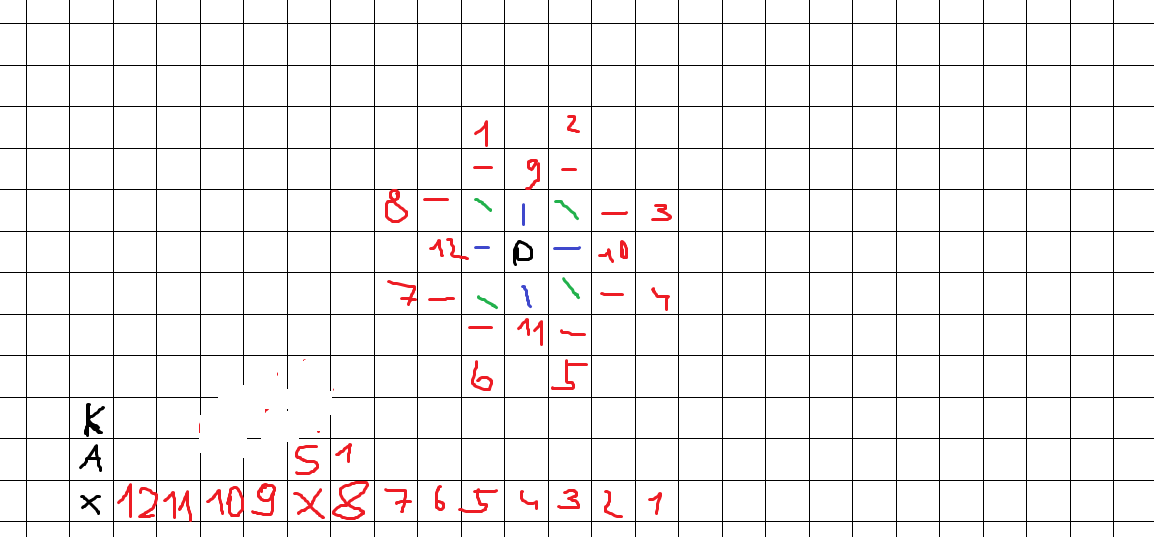
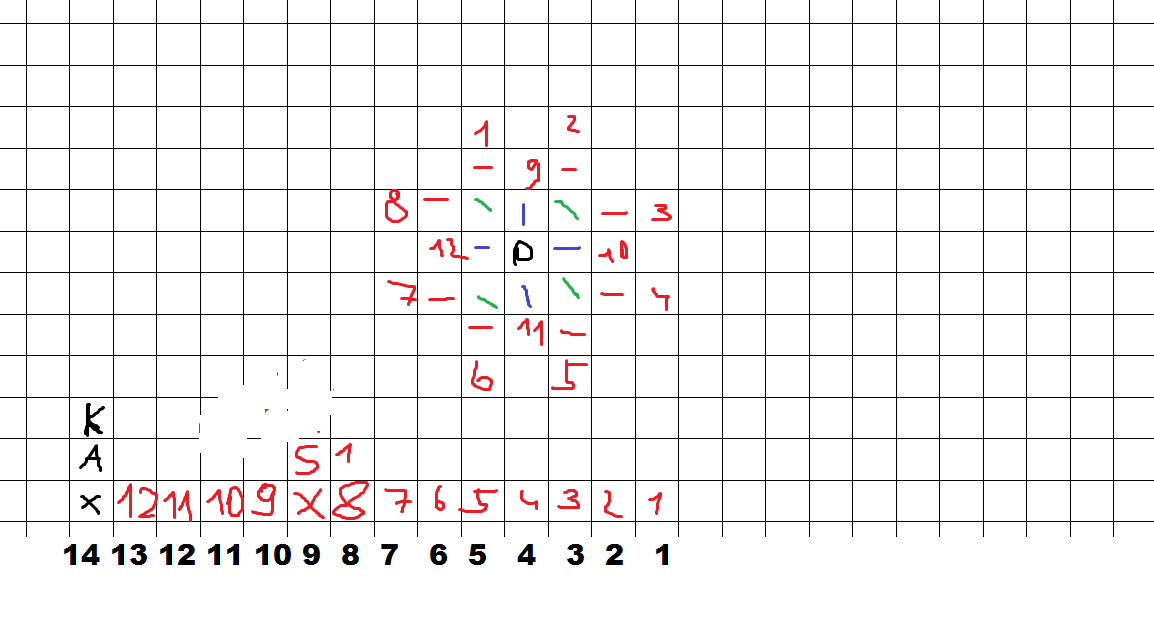
arc,kanc

Changed region(s): [[0.0, 0.149, 1.0, 0.9832], [0.0, 0.0298, 1.0, 0.0596], [0.2184, 0.6555, 0.2496, 0.6853]]

diff --git a/Szachy_Cpp.cpp b/Szachy_Cpp.cpp
@@ -17,9 +17,8 @@ int main()
 {
 	Plansza plansza1(8, 8);
 	Plansza8x8 init(plansza1);		//te dwie linie to utworzenie planszy 8x8 i ustawienie figur
-
-
 	int i, n;
+
 	cout << endl << "Roszada 1: "<< plansza1.get_object(XX, YY).get_castling() << endl;
 	plansza1.set_object(2,1,TEAM,0);
 	plansza1.set_object(3,1,TEAM,0);
@@ -32,10 +31,13 @@ int main()
 	plansza1.set_object(2,1,TEAM,0);
 	cout << endl << "Roszady obie: "<< plansza1.get_object(XX, YY).get_castling() << endl;
 
+
 	i = plansza1.get_object(XX,YY).get_possible_move();
 	cout << endl << "Ruch: "<< i << endl;
 
-	if(plansza1.get_object(XX,YY).get_type()!=Skoczek)
+	if(plansza1.get_object(XX,YY).get_type()!=Skoczek &&
+			plansza1.get_object(XX,YY).get_type()!=Arcybiskup &&
+			plansza1.get_object(XX,YY).get_type()!=Kanclerz)
 	{
 		n = plansza1.get_object(XX,YY).get_elongation_move(7);
 		cout<< n << " ";
@@ -57,6 +59,63 @@ int main()
 		n = plansza1.get_object(XX,YY).get_elongation_move(3);
 		cout<< n << "\n";
 	}
+	else	if(plansza1.get_object(XX,YY).get_type()==Arcybiskup)
+			{
+				n = plansza1.get_object(XX,YY).get_elongation_move(0);
+				cout<< "  " << n << " ";
+				n = plansza1.get_object(XX,YY).get_elongation_move(1);
+				cout<< n << "\n ";
+				n = plansza1.get_object(XX,YY).get_elongation_move(7);
+				cout<< n ;
+				n = plansza1.get_object(XX,YY).get_elongation_move(11);
+				cout<< n << " ";
+				n = plansza1.get_object(XX,YY).get_elongation_move(8);
+				cout<< n << "";
+				n = plansza1.get_object(XX,YY).get_elongation_move(2);
+				cout<< n << "\n   x\n ";
+				n = plansza1.get_object(XX,YY).get_elongation_move(6);
+				cout<< n;
+				n = plansza1.get_object(XX,YY).get_elongation_move(10);
+				cout<< n << " ";
+				n = plansza1.get_object(XX,YY).get_elongation_move(9);
+				cout<< n << "";
+				n = plansza1.get_object(XX,YY).get_elongation_move(3);
+				cout<< n << "\n ";
+				n = plansza1.get_object(XX,YY).get_elongation_move(5);
+				cout<< " " << n << " ";
+				n = plansza1.get_object(XX,YY).get_elongation_move(4);
+				cout<< n << "\n";
+			}
+	else 	if(plansza1.get_object(XX,YY).get_type()==Kanclerz)
+			{
+				n = plansza1.get_object(XX,YY).get_elongation_move(0);
+				cout<< "  " << n << " ";
+				n = plansza1.get_object(XX,YY).get_elongation_move(1);
+				cout<< n << "\n ";
+				n = plansza1.get_object(XX,YY).get_elongation_move(7);
+				cout<< n << " ";
+				n = plansza1.get_object(XX,YY).get_elongation_move(8);
+				cout<< n << " ";
+				n = plansza1.get_object(XX,YY).get_elongation_move(2);
+				cout<< n << "\n  ";
+				n = plansza1.get_object(XX,YY).get_elongation_move(11);
+				cout<< n << "x";
+				n = plansza1.get_object(XX,YY).get_elongation_move(9);
+				cout<< n << "\n ";
+				n = plansza1.get_object(XX,YY).get_elongation_move(6);
+				cout<< n << " ";
+				n = plansza1.get_object(XX,YY).get_elongation_move(10);
+				cout<< n << " ";
+
+
+				n = plansza1.get_object(XX,YY).get_elongation_move(3);
+				cout<< n << "\n ";
+				n = plansza1.get_object(XX,YY).get_elongation_move(5);
+				cout<< " " << n << " ";
+				n = plansza1.get_object(XX,YY).get_elongation_move(4);
+				cout<< n << "\n";
+			}
+
 	else
 	{
 		n = plansza1.get_object(XX,YY).get_elongation_move(0);
@@ -66,7 +125,7 @@ int main()
 		n = plansza1.get_object(XX,YY).get_elongation_move(7);
 		cout<< n << "   ";
 		n = plansza1.get_object(XX,YY).get_elongation_move(2);
-		cout<< n << "\n";
+		cout<< n << "\n  x\n";
 		n = plansza1.get_object(XX,YY).get_elongation_move(6);
 		cout<< n << "   ";
 		n = plansza1.get_object(XX,YY).get_elongation_move(3);

diff --git a/Figury/Figury.cpp b/Figury/Figury.cpp
@@ -168,7 +168,7 @@ void Figury::calc_possible_move(vector<vector<Figury> > _plansza, int dimension_
 			}
 		}
 
-		for(int i=1;i<8; i++)	if(_elongation_move[i]!=0) _possible_move += (1<<i);
+		for(int i=0;i<8; i++)	if(_elongation_move[i]!=0) _possible_move += (1<<i);
 
 	}
 
@@ -211,9 +211,10 @@ void Figury::calc_possible_move(vector<vector<Figury> > _plansza, int dimension_
 	}
 
 
-	if(_type == Arcybiskup)
+	if(_type == Arcybiskup || _type == Kanclerz)
 	{
-		_possible_move = (1<<8);
+		_possible_move = (1<<8);	//ruch jak kon
+		_possible_move = (1<<13);	//ruch dodatkowy jak goniec (A) lub wieza (K)
 
 		if(_x> 1)				if(_y< (dimension_y-1))	if(_plansza[_x-1][_y+2]._type == 0) _possible_move += 1;
 		if(_x< dimension_x)		if(_y< (dimension_y-1))	if(_plansza[_x+1][_y+2]._type == 0) _possible_move += 2;
@@ -225,8 +226,98 @@ void Figury::calc_possible_move(vector<vector<Figury> > _plansza, int dimension_
 		if(_x> 2)				if(_y< dimension_y)		if(_plansza[_x-2][_y+1]._type == 0) _possible_move += 128;
 
 		for(int i=0;i<8;i++) _elongation_move[i] = ((_possible_move & (1<<i))>>i);
-	}
 
+		int x = _x , y = _y;
+		if(_type == Kanclerz)
+		{
+			while(y < dimension_y)
+			{
+				y++;
+				if(_plansza[x][y]._type == 0) _elongation_move[GoraGoraPrawo]++;
+				else break;
+			}
+		}
+
+		x =_x; y = _y;
+		if(_type == Arcybiskup)
+		{
+			while(x < dimension_x && y < dimension_y)
+			{
+				x++;	y++;
+				if(_plansza[x][y]._type == 0) _elongation_move[GoraGoraPrawo]++;
+				else break;
+			}
+		}
+
+		x =_x; y = _y;
+		if(_type == Kanclerz)
+		{
+			while(x < dimension_x)
+			{
+				x++;
+				if(_plansza[x][y]._type == 0) _elongation_move[PrawoDolPrawo]++;
+				else break;
+			}
+		}
+
+		x =_x; y = _y;
+		if(_type == Arcybiskup)
+		{
+			while(x < dimension_x && y>1)
+			{
+				x++; y--;
+				if(_plansza[x][y]._type == 0) _elongation_move[PrawoDolPrawo]++;
+				else break;
+			}
+		}
+
+		x =_x; y = _y;
+		if(_type == Kanclerz)
+		{
+
+			while( y>1)
+			{
+				y--;
+				if(_plansza[x][y]._type == 0) _elongation_move[DolDolLewo]++;
+				else break;
+			}
+		}
+
+		if(_type == Arcybiskup)
+		{
+			x =_x; y = _y;
+			while( x>1 && y>1)
+			{
+				x--; y--;
+				if(_plansza[x][y]._type == 0) _elongation_move[DolDolLewo]++;
+				else break;
+			}
+		}
+
+		x =_x; y = _y;
+		if(_type == Kanclerz)
+		{
+			while( x>1)
+			{
+				x--;
+				if(_plansza[x][y]._type == 0) _elongation_move[LewoGoraLewo]++;
+				else break;
+			}
+		}
+
+		x =_x; y = _y;
+		if(_type == Arcybiskup)
+		{
+			while( x>1 && y < dimension_y)
+			{
+				x--; y++;
+				if(_plansza[x][y]._type == 0) _elongation_move[LewoGoraLewo]++;
+				else break;
+			}
+		}
+
+		for(int i=0;i<4; i++)	if(_elongation_move[i+8]!=0) _possible_move += (1<<i);
+	}
 
 	return;
 }
